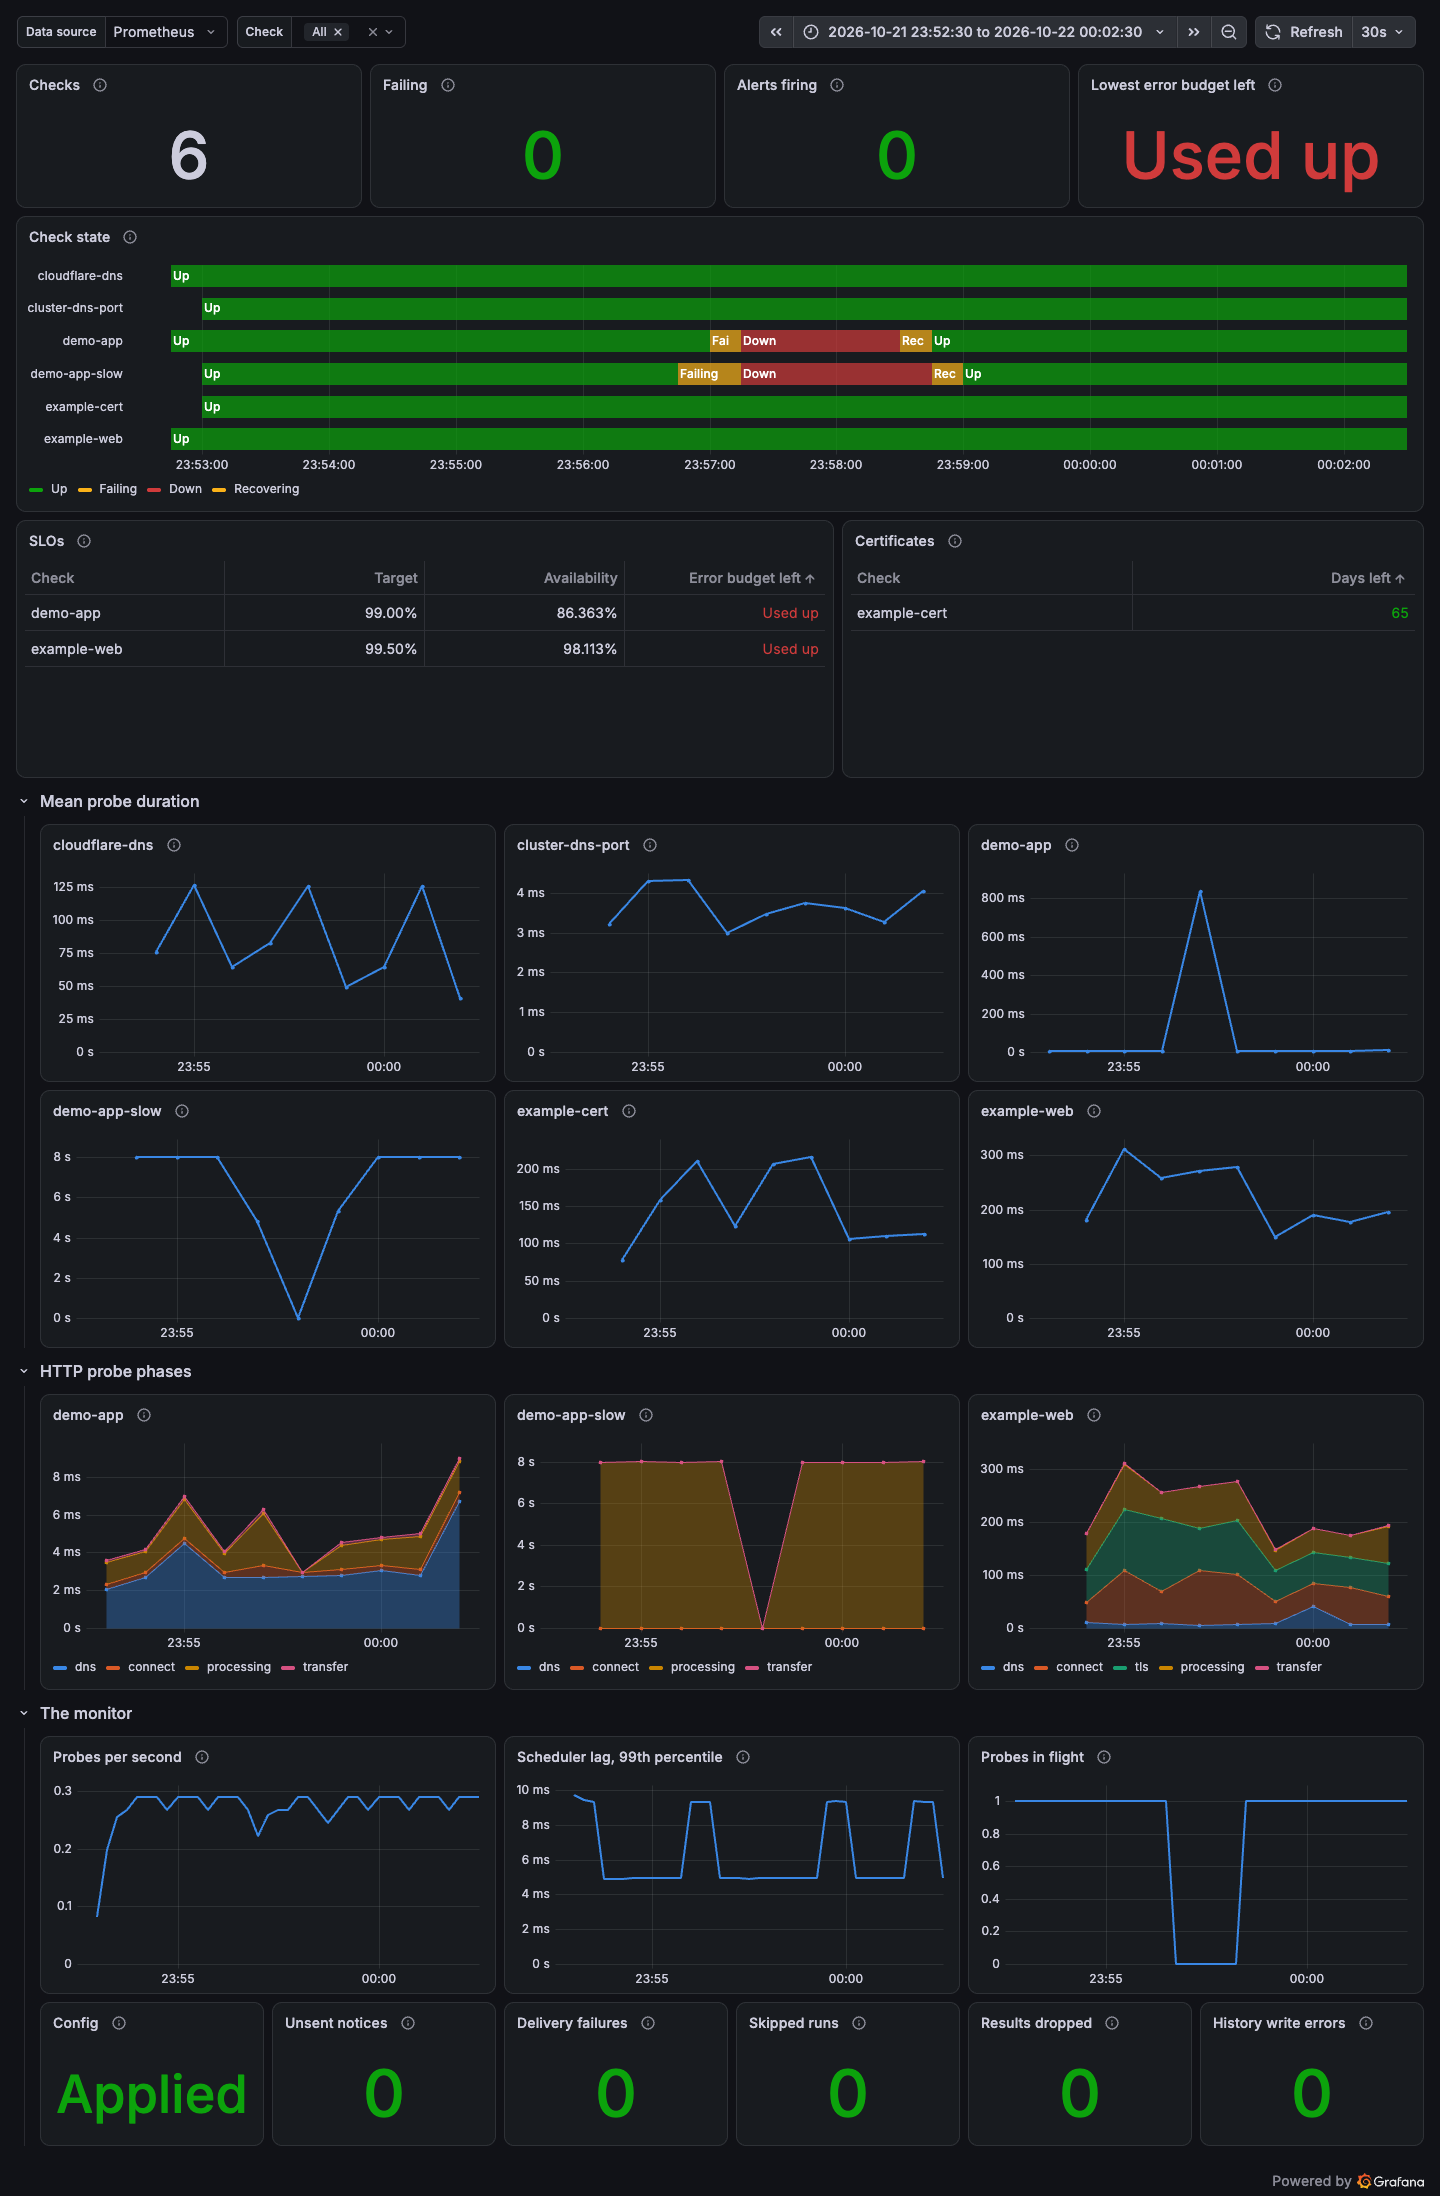
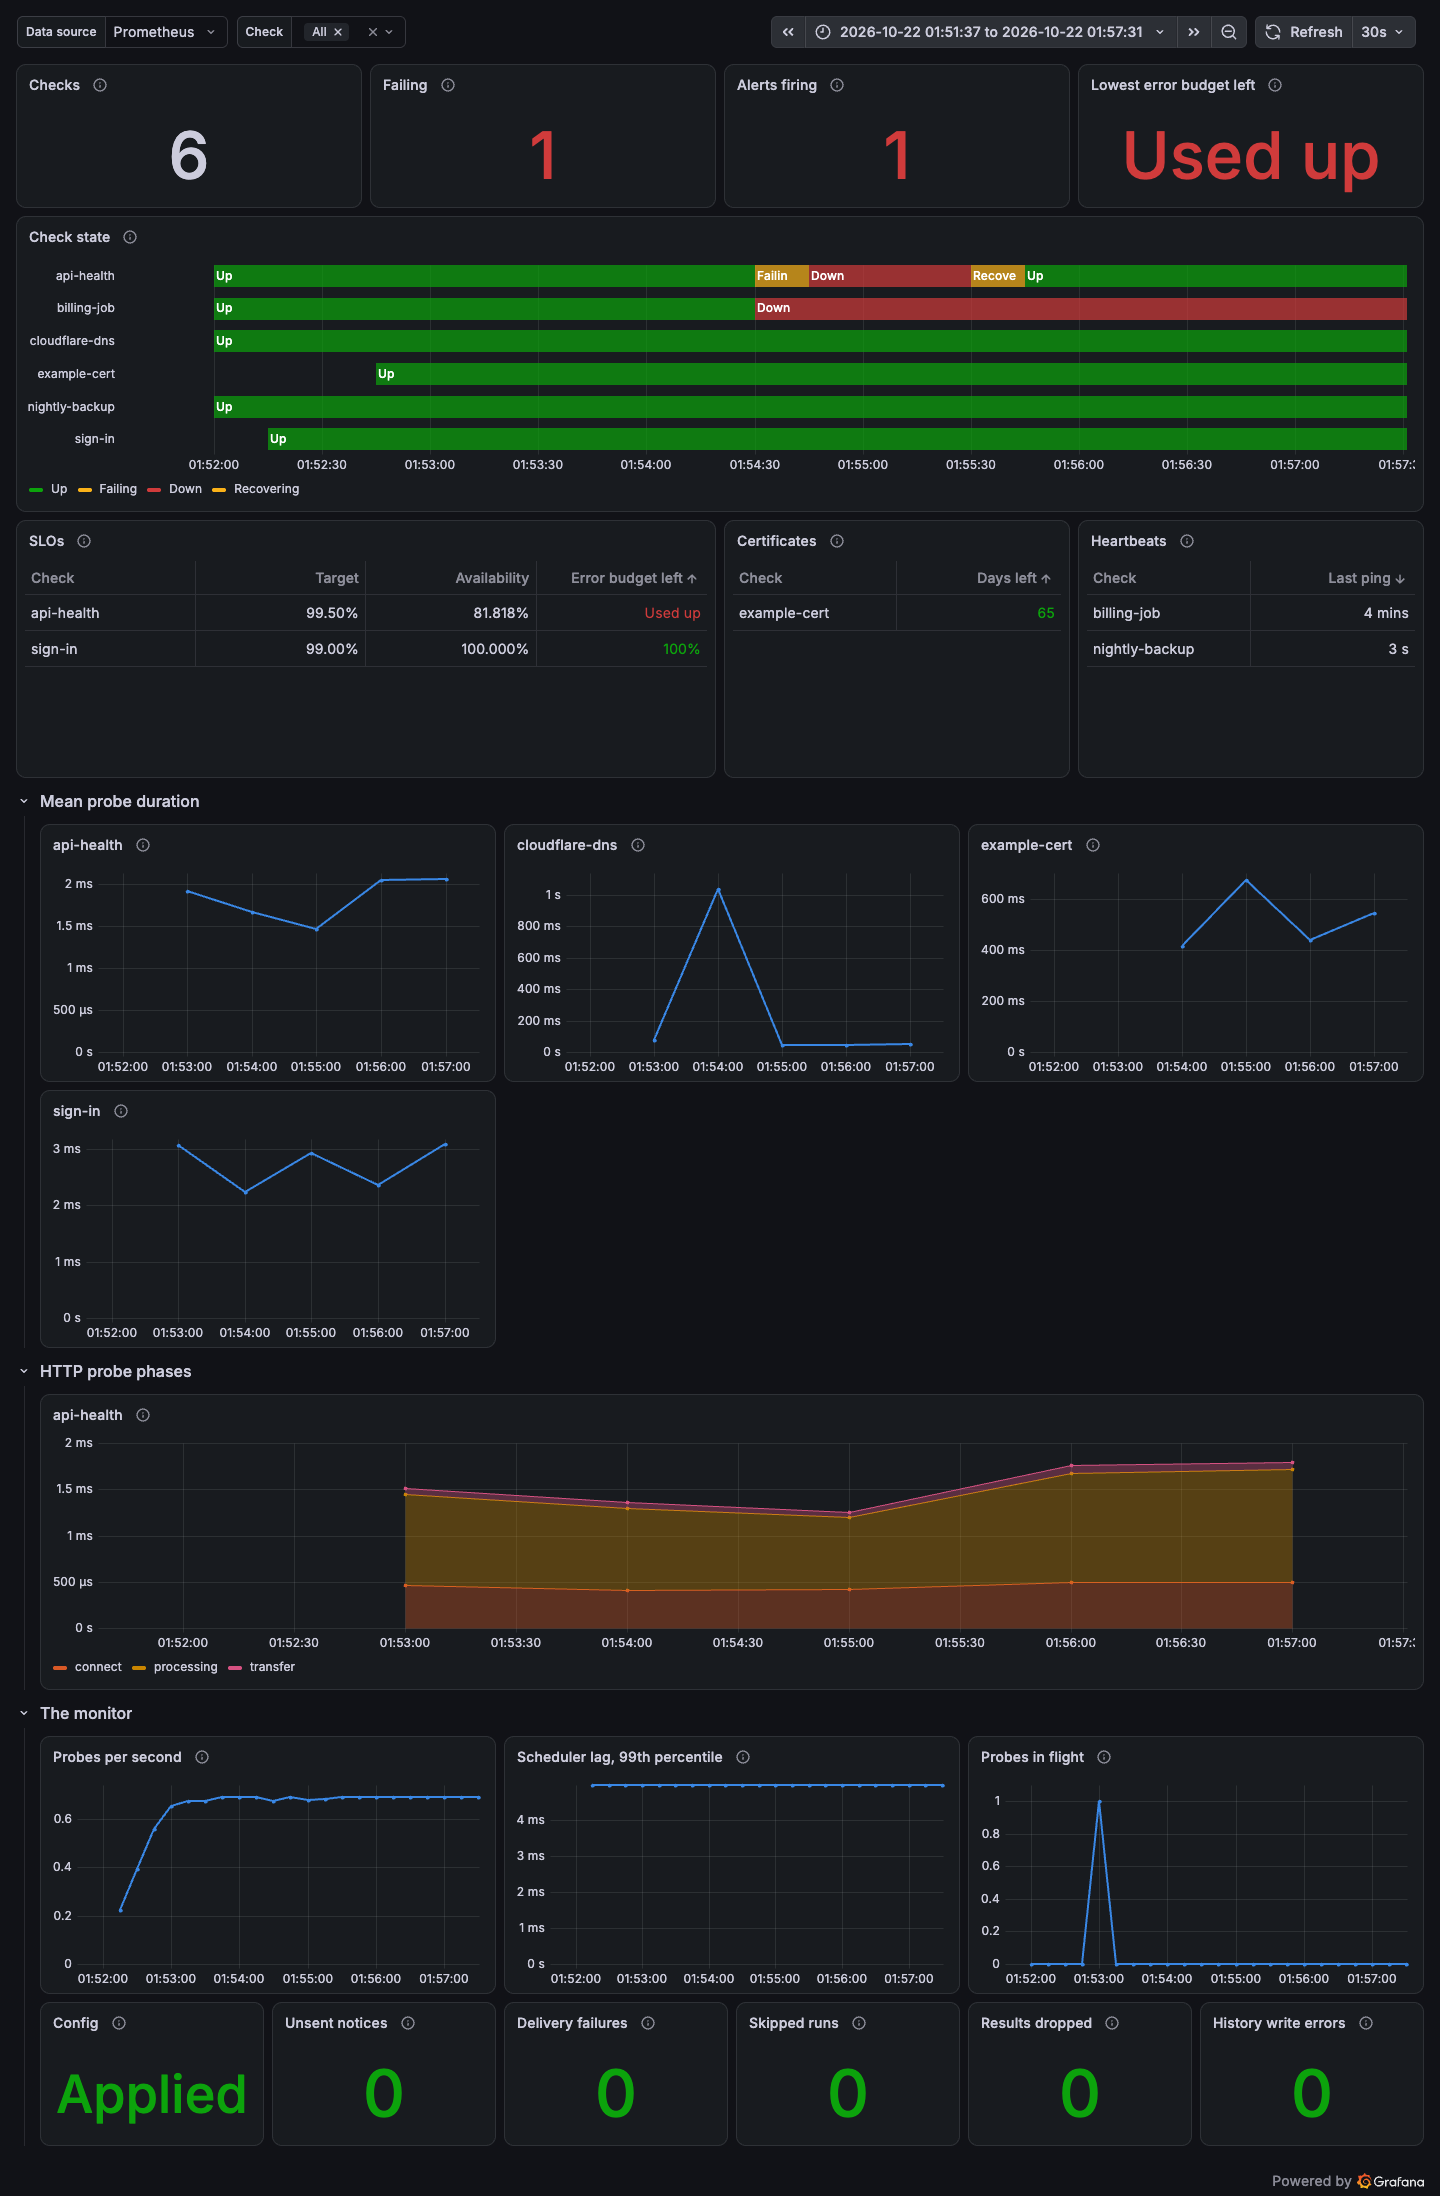
Show heartbeat checks on the dashboard
A table beside the SLOs shows how long ago each heartbeat check was
last pinged, and latency charts leave heartbeat checks out, since they
are pinged rather than timed.

diff --git a/README.md b/README.md
@@ -167,12 +167,12 @@ misspelled ones are rejected.
 <picture>
   <source media="(prefers-color-scheme: dark)" srcset="docs/images/grafana-dashboard-dark.png">
   <img src="docs/images/grafana-dashboard-light.png" width="720"
-       alt="The Grafana dashboard during a test outage: summary numbers, a timeline in which two checks go from up to failing, down and recovering and back to up, SLO and certificate tables, a small latency chart per check, stacked HTTP phase timings, and the monitor's own health.">
+       alt="The Grafana dashboard during a staged test: summary numbers; a timeline in which an API check goes from up to failing, down and recovering and back to up, and a heartbeat check goes down once its job stops pinging; SLO, certificate and heartbeat tables; a latency chart per check; stacked HTTP phase timings; and the monitor's own health.">
 </picture>
 
-The dashboard during a test outage on a local cluster: the demo app behind
-two checks was stopped for about two minutes, and each check went from up to
-failing, down (alert sent), recovering and up again (recovery sent).
+The dashboard during a staged test: the API's health check failed for a
+minute, going from up to failing, down (alert sent), recovering and up again
+(recovery sent), and a job behind a heartbeat check stopped pinging.
 
 ## Performance
 
@@ -646,6 +646,8 @@ more than a handful of lines would need more colours than can be told apart.
 The charts show the mean, computed exactly from the histogram's sum and
 count: with a few probes a minute per check, a percentile estimated from
 histogram buckets would mostly report where the bucket boundaries are.
+Heartbeat checks get no latency chart, since they are pinged rather than
+timed; a table beside the SLOs shows how long ago each was last pinged.
 
 The state timeline combines two metrics into the status page's four states:
 `2 * alert_firing + 1 - probe_success` is 0 when up, 1 when failing below the
